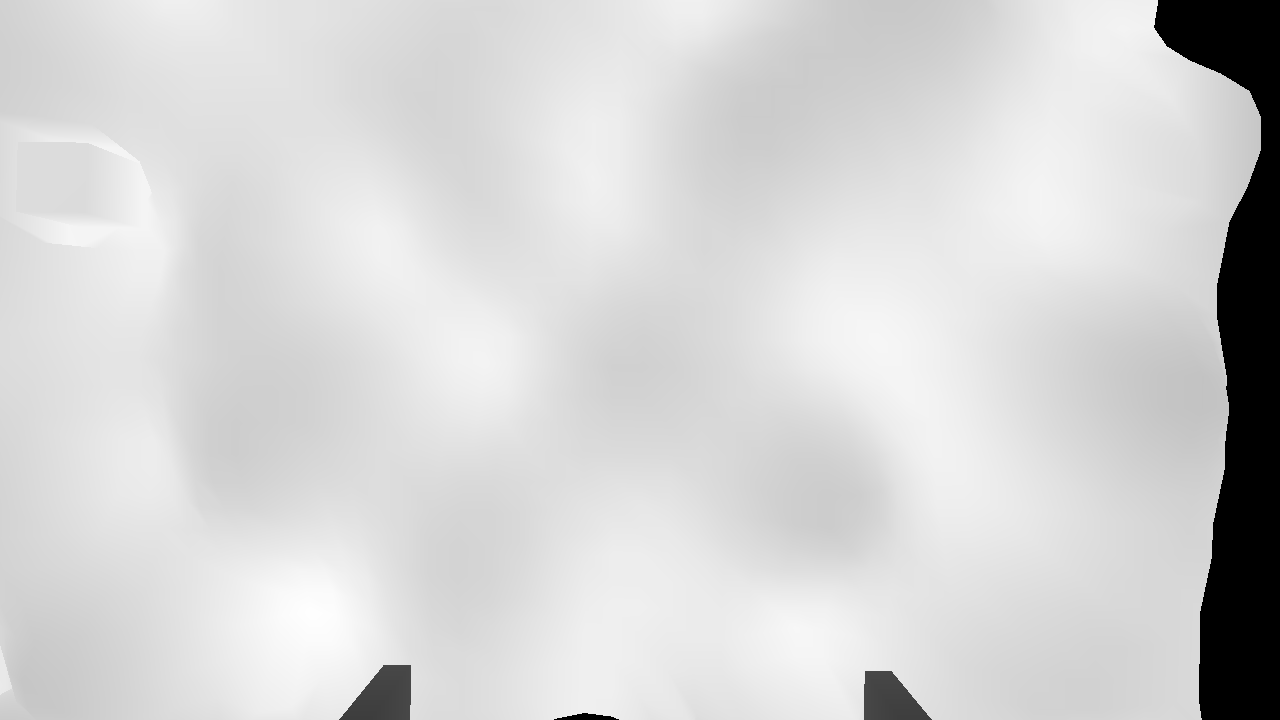
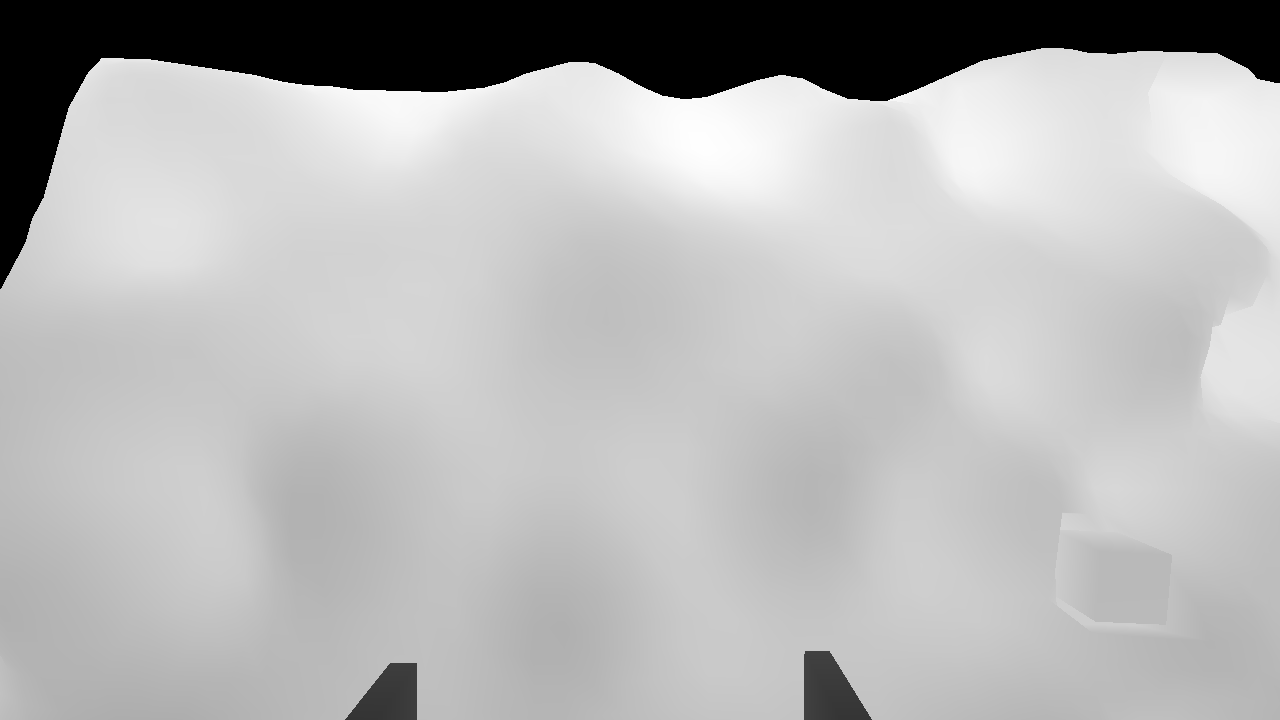
25/05/29

diff --git a/pushing/pushing_main.py b/pushing/pushing_main.py
@@ -544,29 +544,29 @@ if __name__ == "__main__":
     world, my_controller, my_robot, articulation_controller, cube = setup_world()
 
     state = "APPROACH_1"
-    first_target_position = np.array([0.4, 0.4, 0.6])
-    second_target_position = np.array([0.4, 0.4, 0.6])
-    third_target_position = np.array([0.4, 0.4, 0.6])
+    first_target_position = np.array([0.424, 0.424, 0.6])
+    second_target_position = np.array([0.0, 0.6, 0.6])
+    third_target_position = np.array([-0.424, 0.424, 0.6])
 
-    fourth_target_position = np.array([0.5, 0.5, 0.6])
-    fith_target_position = np.array([0.0, 0.5, 0.6])
-    sixth_target_position = np.array([-0.5, 0.5, 0.6])
+    fourth_target_position = np.array([-0.5, 0.25, 0.6])
+    fith_target_position = np.array([0.0, 0.25, 0.6])
+    sixth_target_position = np.array([0.5, 0.25, 0.6])
 
     seven_target_position = np.array([-0.5, 0.75, 0.6])
     eight_target_position = np.array([0.0, 0.6, 0.6])
     nineth_target_position = np.array([0.5, 0.75, 0.6])
 
-    target_orientation_euler_1 = np.array([180.0, -90.0, 0.0])  # euler angles
-    target_orientation_euler_2 = np.array([180.0, -90.0, 0.0])  # euler angles
-    target_orientation_matrix = euler_to_rot_matrix(target_orientation_euler_2, degrees = True, extrinsic = False)
-    # offset_euler = np.array([0.0, 0.0, -45.0])
-    chin_up_offset = np.array([0.0, 0.0, -15.0])
+    target_orientation_euler_1 = np.array([180.0, -90.0, 10.0])  # euler angles
+    target_orientation_euler_2 = np.array([180.0, -90.0, -15.0])  # euler angles
+    # target_orientation_matrix = euler_to_rot_matrix(target_orientation_euler_2, degrees = True, extrinsic = False)
+    # # offset_euler = np.array([0.0, 0.0, -45.0])
+    # chin_up_offset = np.array([0.0, 0.0, 15.0])
 
-    # offset_matrix = euler_to_rot_matrix(offset_euler, degrees = True, extrinsic = False)
-    cnin_up_offset = euler_to_rot_matrix(chin_up_offset, degrees = True, extrinsic = False)
-    # real_matrix = target_orientation_matrix @ offset_matrix
-    real_matrix = target_orientation_matrix @ cnin_up_offset
-    target_orientation_euler_2 = matrix_to_euler_angles(real_matrix, degrees = True, extrinsic = False)
+    # # offset_matrix = euler_to_rot_matrix(offset_euler, degrees = True, extrinsic = False)
+    # cnin_up_offset = euler_to_rot_matrix(chin_up_offset, degrees = True, extrinsic = False)
+    # # real_matrix = target_orientation_matrix @ offset_matrix
+    # real_matrix = target_orientation_matrix @ cnin_up_offset
+    # target_orientation_euler_2 = matrix_to_euler_angles(target_orientation_euler_2, degrees = True, extrinsic = False)
     # print(f"==>> target_orientation_euler_2: {target_orientation_euler_2}")
     target_orientation_euler_3 = np.array([180.0, -90.0, 0.0])  # euler angles
     target_orientation_euler_4 = np.array([180.0, -90.0, 0.0])  # euler angles
@@ -640,7 +640,7 @@ if __name__ == "__main__":
                 robot_approach(
                     my_robot,
                     first_target_position,
-                    target_orientation_1,
+                    target_orientation_2,
                     robot_is_moving,
                 )
                 if robot_just_stopped:
@@ -707,7 +707,7 @@ if __name__ == "__main__":
                 robot_approach(
                     my_robot,
                     fourth_target_position,
-                    target_orientation_3,
+                    target_orientation_1,
                     robot_is_moving,
                 )
                 if robot_just_stopped:
@@ -728,7 +728,7 @@ if __name__ == "__main__":
                 robot_approach(
                     my_robot,
                     fith_target_position,
-                    target_orientation_3,
+                    target_orientation_1,
                     robot_is_moving,
                 )
                 if robot_just_stopped:
@@ -749,7 +749,7 @@ if __name__ == "__main__":
                 robot_approach(
                     my_robot,
                     sixth_target_position,
-                    target_orientation_3,
+                    target_orientation_1,
                     robot_is_moving,
                 )
                 if robot_just_stopped:
@@ -758,7 +758,7 @@ if __name__ == "__main__":
                         camera_pose = get_camera_pose(my_robot)
                         depth_images.append(depth)
                         camera_poses.append(camera_pose)
-                        state = "APPROACH_7"
+                        state = "GNERATE_HEIGHT_MAP"
 
                         cam_position = camera_pose[:3, 3]
                         cam_orientation = camera_pose[:3, :3]
